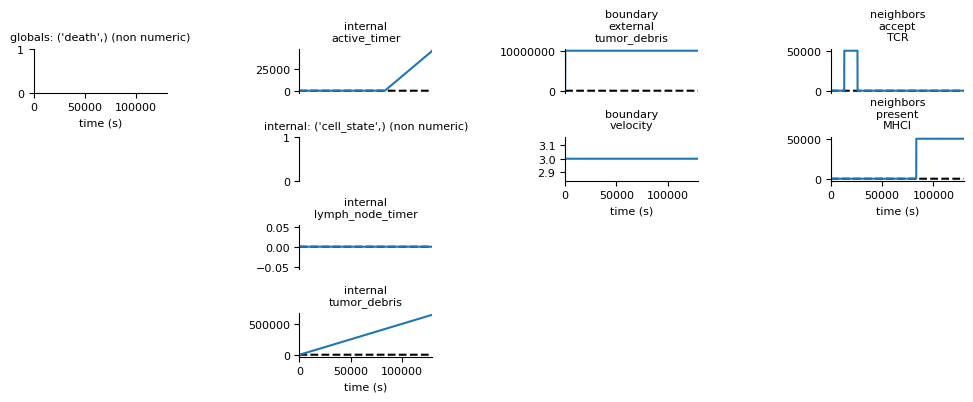
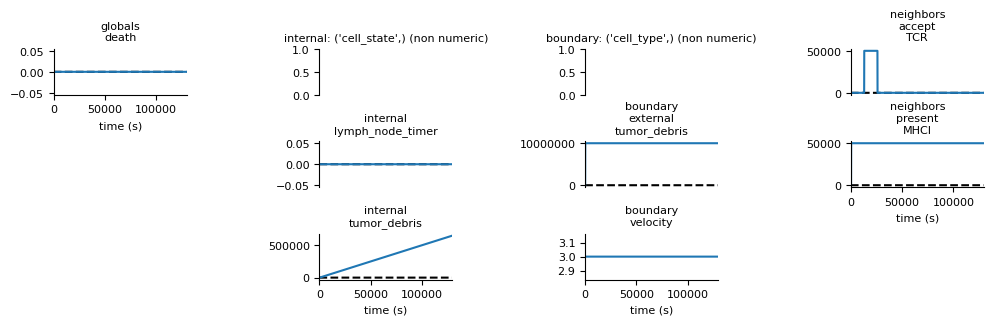
fix the pytet for dendritic agent

diff --git a/tumor_tcell/composites/dendritic_agent.py b/tumor_tcell/composites/dendritic_agent.py
@@ -143,25 +143,7 @@ def test_dendritic_agent(
 ):
     composite = Composite()
     for agent_id in agent_ids:
-        parameters = {
-            'agent_id': agent_id,
-            '_schema': {
-                'dendritic_cell': {
-                    'internal': {
-                        'cell_state': {'_emit': False},
-                        'velocity_timer': {'_emit': False}},
-                    'neighbors': {
-                        'present': {
-                            'TCR': {'_emit': False}},
-                        'transfer': {
-                            'cytotoxic_packets': {'_emit': False}}},
-                    'boundary': {
-                        'velocity': {'_emit': False},
-                        'external': {
-                            'IFNg': {'_emit': False}}},
-                    'globals': {
-                        'PD1n_divide_count': {'_emit': True},
-                        'PD1p_divide_count': {'_emit': True}}}}}
+        parameters = {'agent_id': agent_id}
 
         composer = DendriticAgent(parameters)
         agent = composer.generate(path=('agents', agent_id))
@@ -185,8 +167,6 @@ def test_dendritic_agent(
 
     # settings for simulation and plot
     initial = composite.initial_state()
-    for agent_id in agent_ids:
-        initial['agents'][agent_id]['internal']['cell_state'] = initial_agent_state  # set an initial state
 
     # make the experiment
     experiment = Engine(**{
